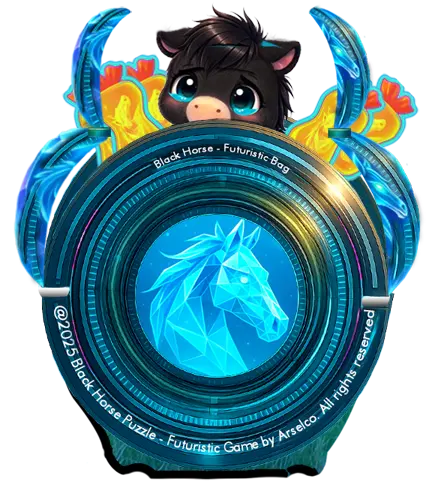
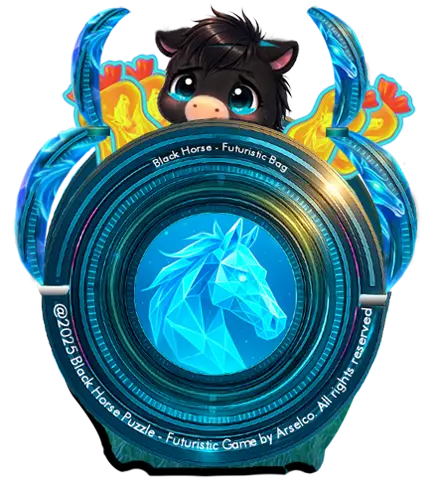
Ganti Help & tambah Bhimbie merem

diff --git a/Scenes/GameLoad.js b/Scenes/GameLoad.js
@@ -160,11 +160,15 @@ window.GameLoad.preloadAllAssets = function(scene) {
     scene.load.image('bhMiniS2_GM2AFBO', './Puzzle-Assets/UI/GM 2A Futuristic Bag Open.webp');
     scene.load.image('bhMiniS2_GM2BFBBS', './Puzzle-Assets/UI/GM 2B Futuristic Bag Bhimbie Show.webp');
     scene.load.image('bhMiniS2_GM3BFBTE', './Puzzle-Assets/UI/GM 3 Bhimbie into Futuristic Bag Teary eyes.webp');
+    scene.load.image('bhMiniS2_GM3BFBTECE', './Puzzle-Assets/UI/GM 3 Bhimbie into Futuristic Bag Teary eyes CE.webp');
     scene.load.image('bhMiniS2_GM4BFBTE', './Puzzle-Assets/UI/GM 4 Bhimbie into Futuristic Bag Shed a Tear.webp');
+    scene.load.image('bhMiniS2_GM4BFBTECE', './Puzzle-Assets/UI/GM 4 Bhimbie into Futuristic Bag Shed a Tear CE.webp');
     scene.load.image('bhMiniS2_GM5BFBCVS', './Puzzle-Assets/UI/GM 5 Bhimbie into Futuristic Bag Closed Very Sad.webp');
     scene.load.image('bhMiniS2_GM5BFBCVS1', './Puzzle-Assets/UI/GM 5 Bhimbie into Futuristic Bag Closed Very Sad1.webp');
     scene.load.image('bhMiniS2_GM5BFBCVS2', './Puzzle-Assets/UI/GM 5 Bhimbie into Futuristic Bag Closed Very Sad2.webp');
     scene.load.image('bhMiniS2_GM6FBEO', './Puzzle-Assets/UI/GM 6 Futuristic Bag Empty Open.webp');
     scene.load.image('bhMiniS2_GM6FBBO', './Puzzle-Assets/UI/GM 6 Futuristic Bag with Bhimbie Open.webp');
+    scene.load.image('bhMiniS2_GM6FBBOCE', './Puzzle-Assets/UI/GM 6 Futuristic Bag with Bhimbie Open CE.webp');
     scene.load.image('bhMiniS2_GM7BGF', './Puzzle-Assets/UI/GM 7 Bhimbie GetOut Free.webp');
+    scene.load.image('bhMiniS2_GM7BGFCE', './Puzzle-Assets/UI/GM 7 Bhimbie GetOut Free Closed Eyes.webp')
   }
